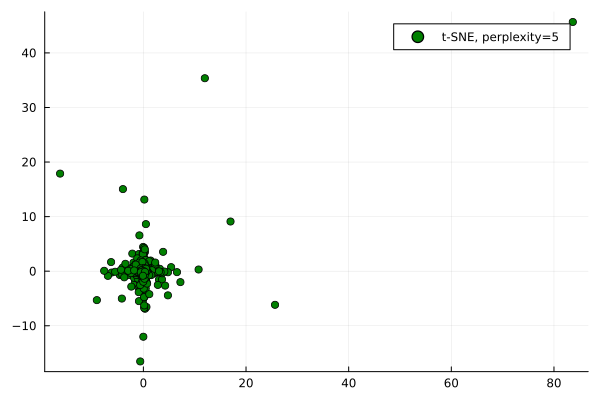
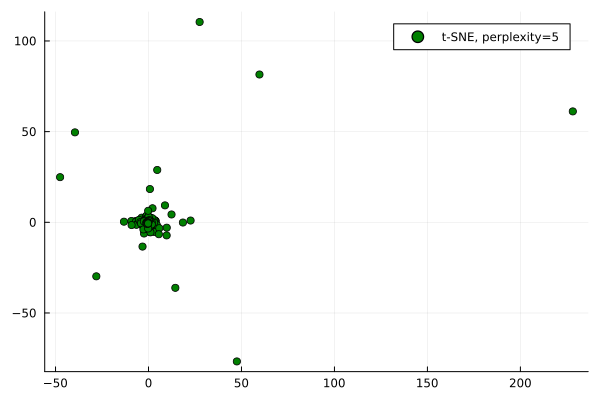
Add.

diff --git a/notes.html b/notes.html
@@ -33,7 +33,7 @@ document.addEventListener('DOMContentLoaded', function () {
 });
 </script>
 </head><body><h2 id="home"><a href="./index.html">home</a></h2>
-<p><em>author: niplav, created: 2019-05-22, modified: 2024-11-28, language: english, status: in progress, importance: 3, confidence: other</em></p>
+<p><em>author: niplav, created: 2019-05-22, modified: 2024-12-15, language: english, status: in progress, importance: 3, confidence: other</em></p>
 <blockquote>
 <p><strong>Short texts on different topics.</strong></p>
 </blockquote>
@@ -1774,7 +1774,7 @@ techniques like <a href="https://distill.pub/2016/misread-tsne/">t-SNE</a> or
 tend to find clusters in random data, even if they're not <em>really
 present</em>.</p>
 <p>I think this is wrong in the strict
-sense. I'll generate 10k 2k-dimensional <a href="https://en.wikipedia.org/wiki/Normal-distribution">normally
+sense. I'll generate 10k 2k-dimensional <a href="https://en.wikipedia.org/wiki/Uniform_distribution">uniformly
 distributed</a>
 samples, reduce them down to 2 dimensions, and plot
 the result (code <a href="./code/dimension/code.jl">here</a> in
@@ -1795,8 +1795,10 @@ gui(scatter(reduced[:,1],reduced[:,2]))
 <pre><code>gui(scatter(reduced_umap[1,:],reduced_umap[2,:], color=:red))
 </code></pre>
 <p><img alt="" src="./img/dimension/umap_plot.png"/></p>
-<p>Changing the perplexity to 5 doesn't change the clustering produced
-by t-SNE:</p>
+<p>Changing the perplexity to 5 changes the clustering produced by t-SNE —
+no obvious <em>clustering</em>, but it leads to structure being hallucinated,
+especially the tendency towards identifying a cross-shaped pattern in
+the data, and imagining outliers where they don't exist.</p>
 <pre><code>reduced_5=tsne(data, 2, 0, 1000, 5.0)
 gui(scatter(reduced_5[:,1],reduced_5[:,2], color=:green))
 </code></pre>
@@ -1807,13 +1809,34 @@ hallucinates structure in that case‼</p>
 <p>(In all cases with 1000 datapoints.)</p>
 <p>And the same for UMAP:</p>
 <p><img alt="" src="./img/dimension/umap_moredims.png"/></p>
-<p>A <a href="https://en.wikipedia.org/wiki/Steelmanning">steelmanned</a> critique
-could be that sometimes people use dimensionality reduction techniques for
-clustering, instead of separating visualization and clustering (such as
-via good ol' <a href="https://en.wikipedia.org/wiki/K-means_Clustering">k-means</a>),
+<p><a href="https://x.com/quetzal_rainbow/status/1868307804702069173">quetzal_rainbow
+suggested</a>
+I test it with data where half the dimensions are <a href="https://en.wikipedia.org/wiki/Normal-distribution">normally
+distributed</a>
+and the other half is <a href="https://en.wikipedia.org/wiki/Lognormal_Distribution">lognormally
+distributed</a>.
+Intuitively, the resulting dataset has the shape of an skewed hyperegg,
+in which for half the dimensions the cross-section is spherical and for
+the other half they extend much further in one direction than the other.</p>
+<p>When reducing the dimensions, we see this for t-SNE on 1000 datapoints each:</p>
+<p><img alt="" src="./img/dimension/tsne_mixed_moredims.png"/></p>
+<p>And similarly for UMAP:</p>
+<p><img alt="" src="./img/dimension/umap_mixed_moredims.png"/></p>
+<p>The dimensionality reduction algorithms get executed on the same dataset
+per dimensionality, which is why they have very similar outputs for
+e.g. 16k dimensions: The generated dataset has a few outliers which end
+up far away from the center of the dataset, and both t-SNE and UMAP pick
+up on that. I find it pretty encouraging to see how two very different
+algorithms find the same structure in the data.</p>
+<p>A <a href="https://en.wikipedia.org/wiki/Steelmanning">steelmanned</a>
+critique of these two algorithms could be that sometimes people
+use dimensionality reduction techniques for clustering, instead
+of separating visualization and clustering (such as via good ol'
+<a href="https://en.wikipedia.org/wiki/K-means_Clustering">k-means</a>),
 but t-SNE is <a href="https://en.wikipedia.org/wiki/Clustering_high-dimensional_data#Projection-based_clustering">sometimes used even for
 clustering</a>,
-all my charity is being exhausted at this point. But beware:</p>
+all my charity is being exhausted at this point.</p>
+<p>Worth noting though:</p>
 <blockquote>
 <p>Cluster sizes in a t-SNE plot mean nothing […]<br/>
 The basic message is that distances between well-separated clusters in

diff --git a/diamond.html b/diamond.html
@@ -33,7 +33,7 @@ document.addEventListener('DOMContentLoaded', function () {
 });
 </script>
 </head><body><h2 id="home"><a href="./index.html">home</a></h2>
-<p><em>author: niplav, created: 2020-11-20, modified: 2024-07-09, language: english, status: in progress, importance: 4, confidence: highly likely</em></p>
+<p><em>author: niplav, created: 2020-11-20, modified: 2024-12-15, language: english, status: in progress, importance: 4, confidence: highly likely</em></p>
 <blockquote>
 <p><strong>The <a href="https://en.wikipedia.org/wiki/Diamond-square_algorithm">Diamond-Square
 algorithm</a>

diff --git a/anim/diamond/diamond.py b/anim/diamond/diamond.py
@@ -1,7 +1,7 @@
 from manim import *
 import numpy as np
 
-class LongSquareAnimation(ThreeDScene):
+class LongDiamondAnimation(ThreeDScene):
     def construct(self):
         # Configuration
         self.set_camera_orientation(phi=75 * DEGREES, theta=45 * DEGREES)
@@ -118,7 +118,7 @@ class LongSquareAnimation(ThreeDScene):
         # Continue rotation for a few more seconds
         self.wait(3)
 
-class LongDiamondAnimation(ThreeDScene):
+class LongSquareAnimation(ThreeDScene):
     def construct(self):
         # Configuration
         self.set_camera_orientation(phi=75 * DEGREES, theta=45 * DEGREES)
@@ -197,80 +197,30 @@ class LongDiamondAnimation(ThreeDScene):
         )
         self.wait(1)
 
-        # Define faces and their centers
-        faces = [
-            # Front, Back, Left, Right, Top, Bottom
-            ([1, 3, 5, 7], [0, 0, 2]),
-            ([0, 2, 4, 6], [0, 0, -2]),
-            ([4, 5, 6, 7], [2, 0, 0]),
-            ([0, 1, 2, 3], [-2, 0, 0]),
-            ([2, 3, 6, 7], [0, 2, 0]),
-            ([0, 1, 4, 5], [0, -2, 0])
-        ]
-
-        # Store face centers and their colors
-        face_center_colors = {}
-        face_center_points = {}  # Store actual face center points
-
-        # Process each face
-        for face_corners_idx, face_center in faces:
-            face_colors = [corner_colors[i] for i in face_corners_idx]
-            face_center_color = average_color(*face_colors)
-            face_center_dot = Dot3D(point=face_center, radius=0.1, color=face_center_color)
-
-            face_center_colors[tuple(face_center)] = face_center_color
-            face_center_points[tuple(face_center)] = np.array(face_center)  # Store the point
-
-            face_arrows = VGroup()
-            for corner_idx in face_corners_idx:
-                start_point = corners[corner_idx]
-                direction = np.array(face_center) - start_point
-                direction = direction / np.linalg.norm(direction) * (np.linalg.norm(direction) - 0.3)
-                end_point = start_point + direction
-
-                arrow = Arrow3D(
-                    start=start_point,
-                    end=end_point,
-                    color=WHITE,
-                    thickness=0.01,
-                )
-                face_arrows.add(arrow)
-
-            self.play(
-                Create(face_center_dot),
-                *[Create(arrow) for arrow in face_arrows],
-                run_time=1.33
-            )
-
-        self.wait(1)
-
         # Define edges and their midpoints
         edges = [
-            ([1, 3], [-2, 0, 2], [[0, 0, 2], [-2, 0, 0]]),
-            ([1, 5], [0, -2, 2], [[0, 0, 2], [0, -2, 0]]),
-            ([3, 7], [0, 2, 2], [[0, 0, 2], [0, 2, 0]]),
-            ([5, 7], [2, 0, 2], [[0, 0, 2], [2, 0, 0]]),
+            ([1, 3], [-2, 0, 2]),
+            ([1, 5], [0, -2, 2]),
+            ([3, 7], [0, 2, 2]),
+            ([5, 7], [2, 0, 2]),
 
-            ([0, 1], [-2, -2, 0], [[-2, 0, 0], [0, -2, 0]]),
-            ([2, 3], [-2, 2, 0], [[-2, 0, 0], [0, 2, 0]]),
-            ([4, 5], [2, -2, 0], [[2, 0, 0], [0, -2, 0]]),
-            ([6, 7], [2, 2, 0], [[2, 0, 0], [0, 2, 0]]),
+            ([0, 1], [-2, -2, 0]),
+            ([2, 3], [-2, 2, 0]),
+            ([4, 5], [2, -2, 0]),
+            ([6, 7], [2, 2, 0]),
 
-            ([0, 2], [-2, 0, -2], [[-2, 0, 0], [0, 0, -2]]),
-            ([4, 0], [0, -2, -2], [[0, 0, -2], [0, -2, 0]]),
-            ([6, 2], [0, 2, -2], [[0, 0, -2], [0, 2, 0]]),
-            ([4, 6], [2, 0, -2], [[0, 0, -2], [2, 0, 0]])
+            ([0, 2], [-2, 0, -2]),
+            ([4, 0], [0, -2, -2]),
+            ([6, 2], [0, 2, -2]),
+            ([4, 6], [2, 0, -2]),
         ]
 
         # Process each edge
-        for (corner1_idx, corner2_idx), edge_center, adjacent_faces in edges:
+        for (corner1_idx, corner2_idx), edge_center in edges:
             colors_to_average = [
                 corner_colors[corner1_idx],
                 corner_colors[corner2_idx]
             ]
-            for face_center in adjacent_faces:
-                face_center_color = face_center_colors[tuple(face_center)]
-                colors_to_average.append(face_center_color)
 
             edge_center_color = average_color(*colors_to_average)
             edge_center_dot = Dot3D(point=edge_center, radius=0.08, color=edge_center_color)
@@ -292,25 +242,57 @@ class LongDiamondAnimation(ThreeDScene):
                 )
                 edge_arrows.add(arrow)
 
-            # Arrows from face centers to edge center
-            for face_center in adjacent_faces:
-                start_point = face_center_points[tuple(face_center)]
-                direction = np.array(edge_center) - start_point
-                direction = direction / np.linalg.norm(direction) * (np.linalg.norm(direction) - 0.3)
-                end_point = start_point + direction
-
-                arrow = Arrow3D(
-                    start=start_point,
-                    end=end_point,
-                    color=WHITE,
-                    thickness=0.005,
-                )
-                edge_arrows.add(arrow)
-
             self.play(
                 Create(edge_center_dot),
                 *[Create(arrow) for arrow in edge_arrows],
                 run_time=1.25
             )
 
-        self.wait(3)
+        self.wait(1)
+
+#        # Define faces and their centers
+#        faces = [
+#            # Front, Back, Left, Right, Top, Bottom
+#            ([1, 3, 5, 7], [0, 0, 2]),
+#            ([0, 2, 4, 6], [0, 0, -2]),
+#            ([4, 5, 6, 7], [2, 0, 0]),
+#            ([0, 1, 2, 3], [-2, 0, 0]),
+#            ([2, 3, 6, 7], [0, 2, 0]),
+#            ([0, 1, 4, 5], [0, -2, 0])
+#        ]
+#
+#        # Store face centers and their colors
+#        face_center_colors = {}
+#        face_center_points = {}  # Store actual face center points
+#
+#        # Process each face
+#        for face_corners_idx, face_center in faces:
+#            face_colors = [corner_colors[i] for i in face_corners_idx]
+#            face_center_color = average_color(*face_colors)
+#            face_center_dot = Dot3D(point=face_center, radius=0.1, color=face_center_color)
+#
+#            face_center_colors[tuple(face_center)] = face_center_color
+#            face_center_points[tuple(face_center)] = np.array(face_center)  # Store the point
+#
+#            face_arrows = VGroup()
+#            for corner_idx in face_corners_idx:
+#                start_point = corners[corner_idx]
+#                direction = np.array(face_center) - start_point
+#                direction = direction / np.linalg.norm(direction) * (np.linalg.norm(direction) - 0.3)
+#                end_point = start_point + direction
+#
+#                arrow = Arrow3D(
+#                    start=start_point,
+#                    end=end_point,
+#                    color=WHITE,
+#                    thickness=0.01,
+#                )
+#                face_arrows.add(arrow)
+#
+#            self.play(
+#                Create(face_center_dot),
+#                *[Create(arrow) for arrow in face_arrows],
+#                run_time=1.33
+#            )
+#
+#        self.wait(3)
